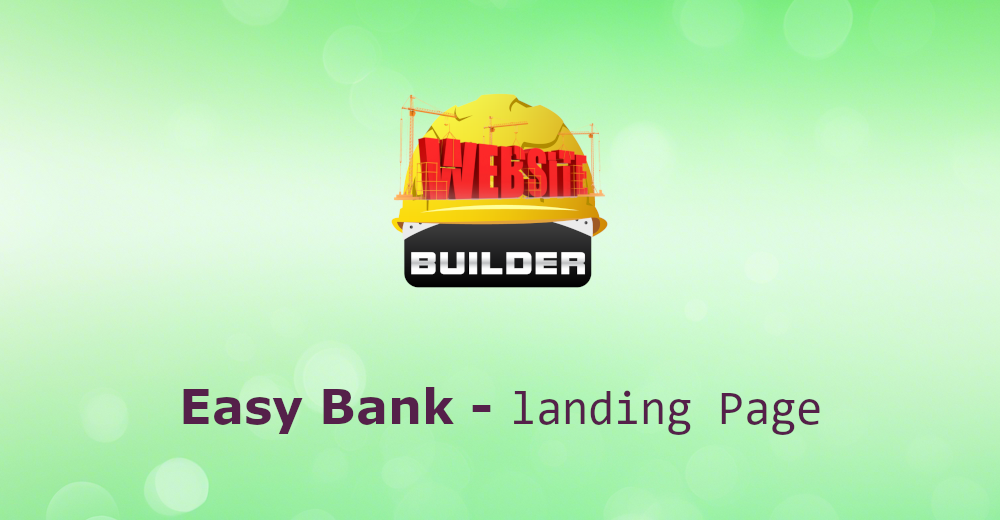
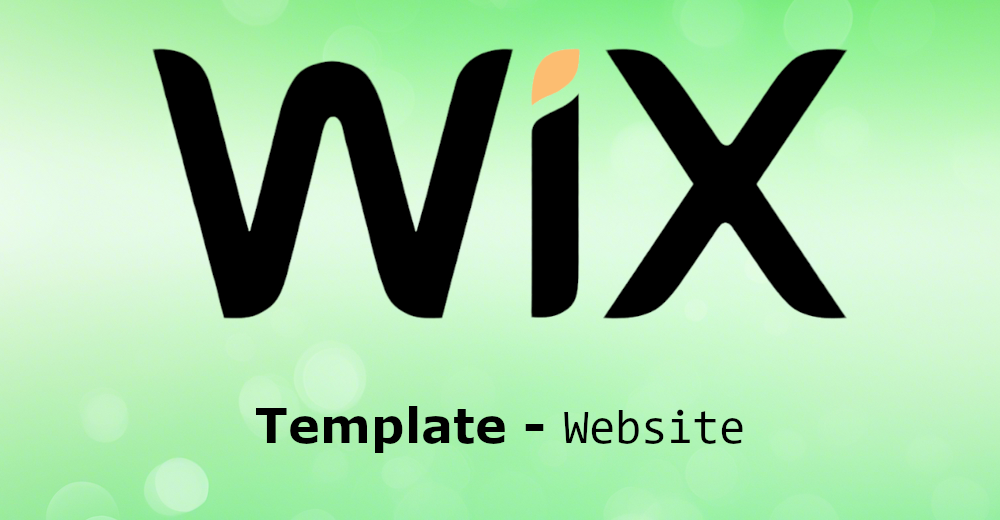
update portfolio

Changed region(s): [[0.155, 0.0923, 0.868, 0.6154], [0.186, 0.7385, 0.837, 0.8615]]

diff --git a/index.html b/index.html
@@ -237,7 +237,7 @@
         <div class="mySlides fade">
           <div class="numbertext"></div>
           <a
-            href="https://ebank-front-page.netlify.app/index.html"
+            href="https://prayogosantoso.wixsite.com/mysite"
             target="_blank"
             ><img src="img/image2.png" style="width: 100%"
           /></a>
